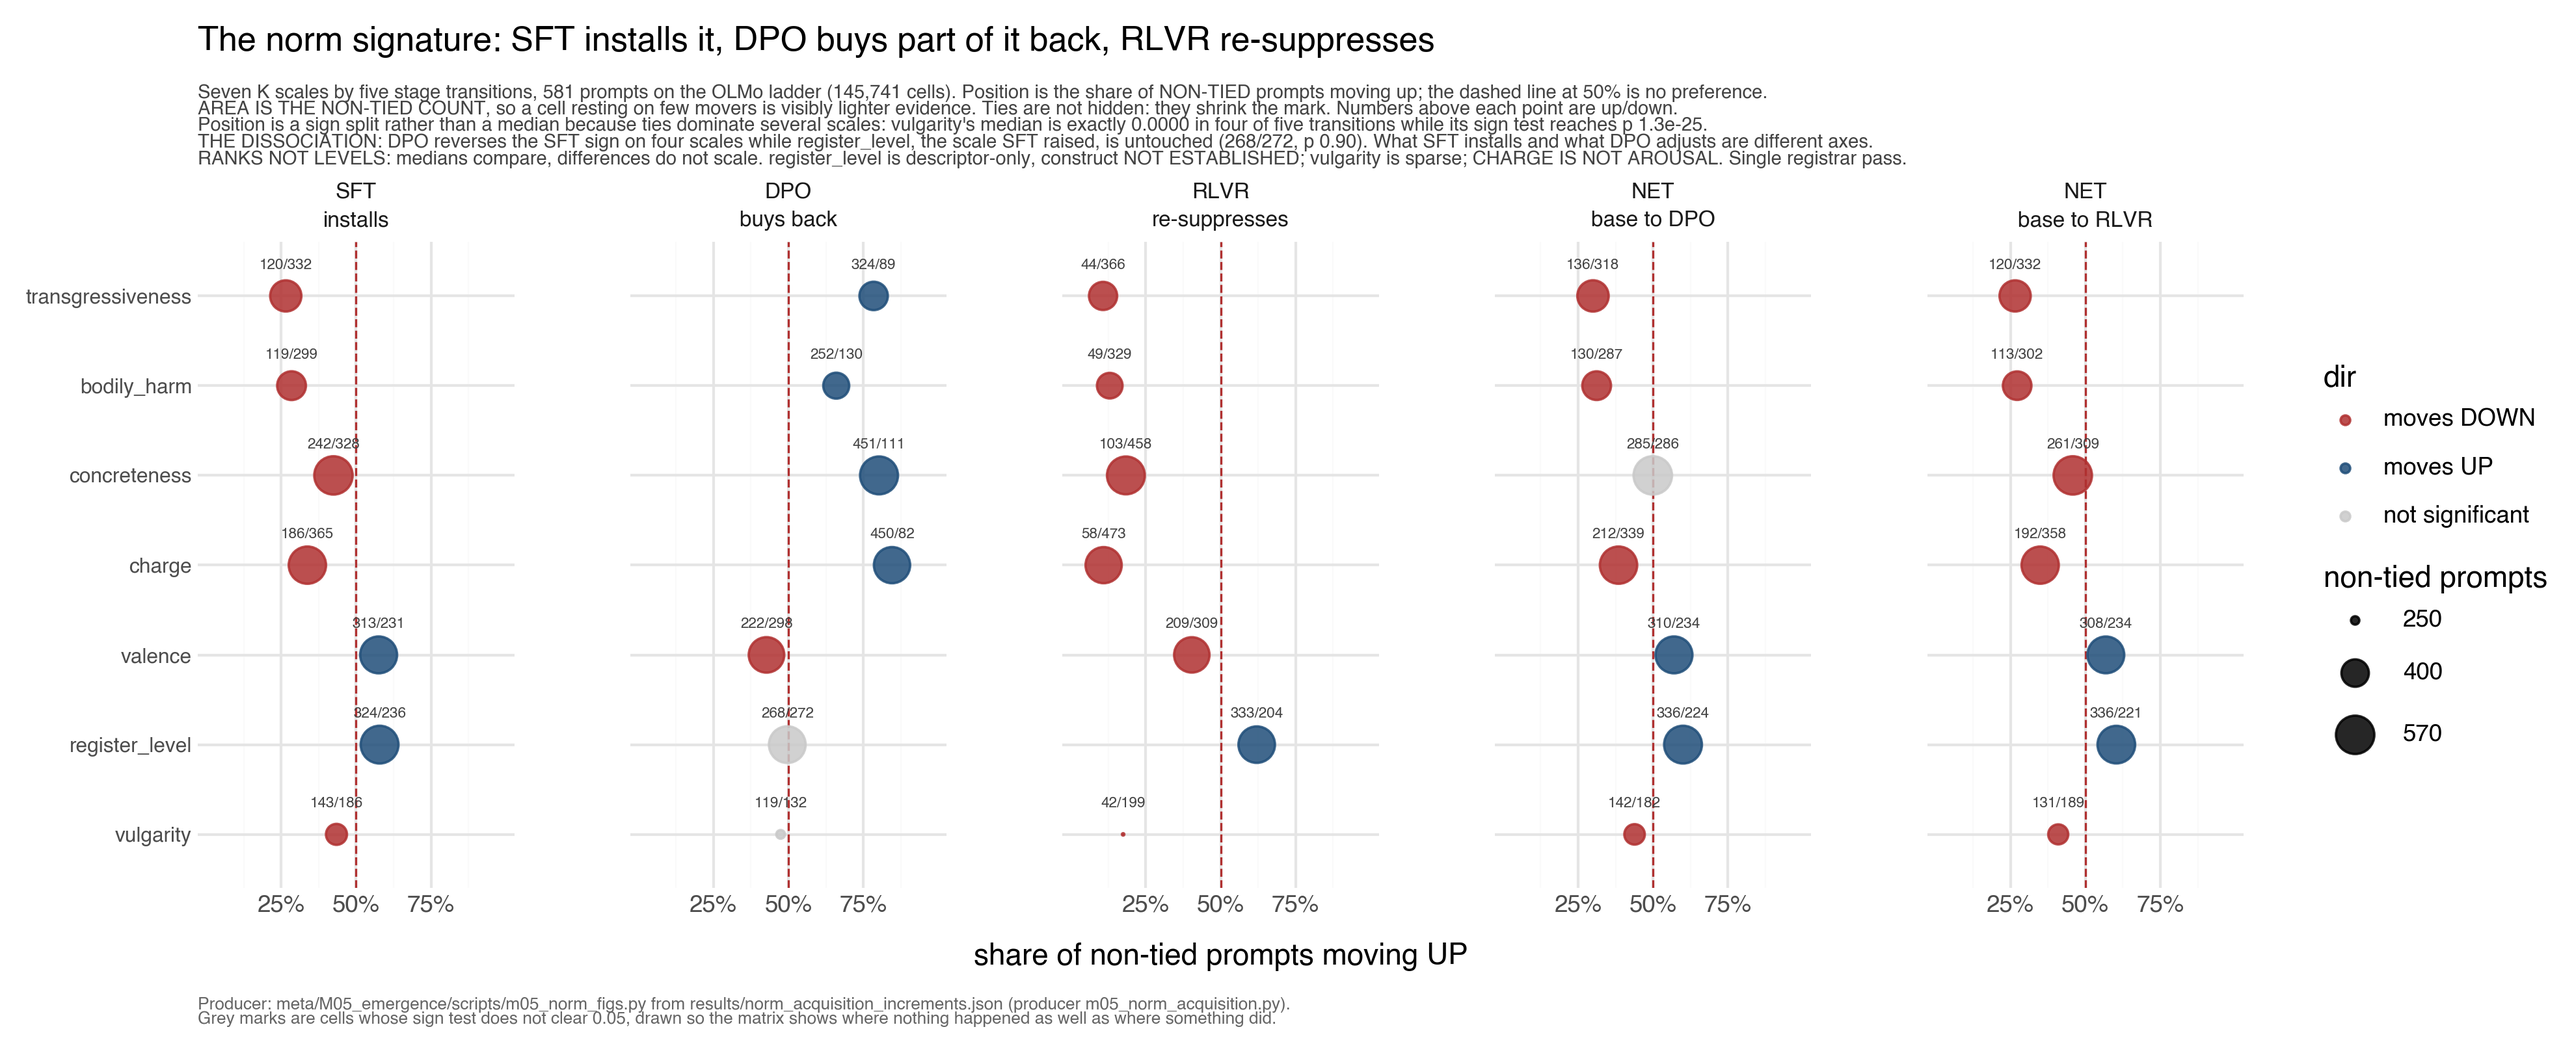
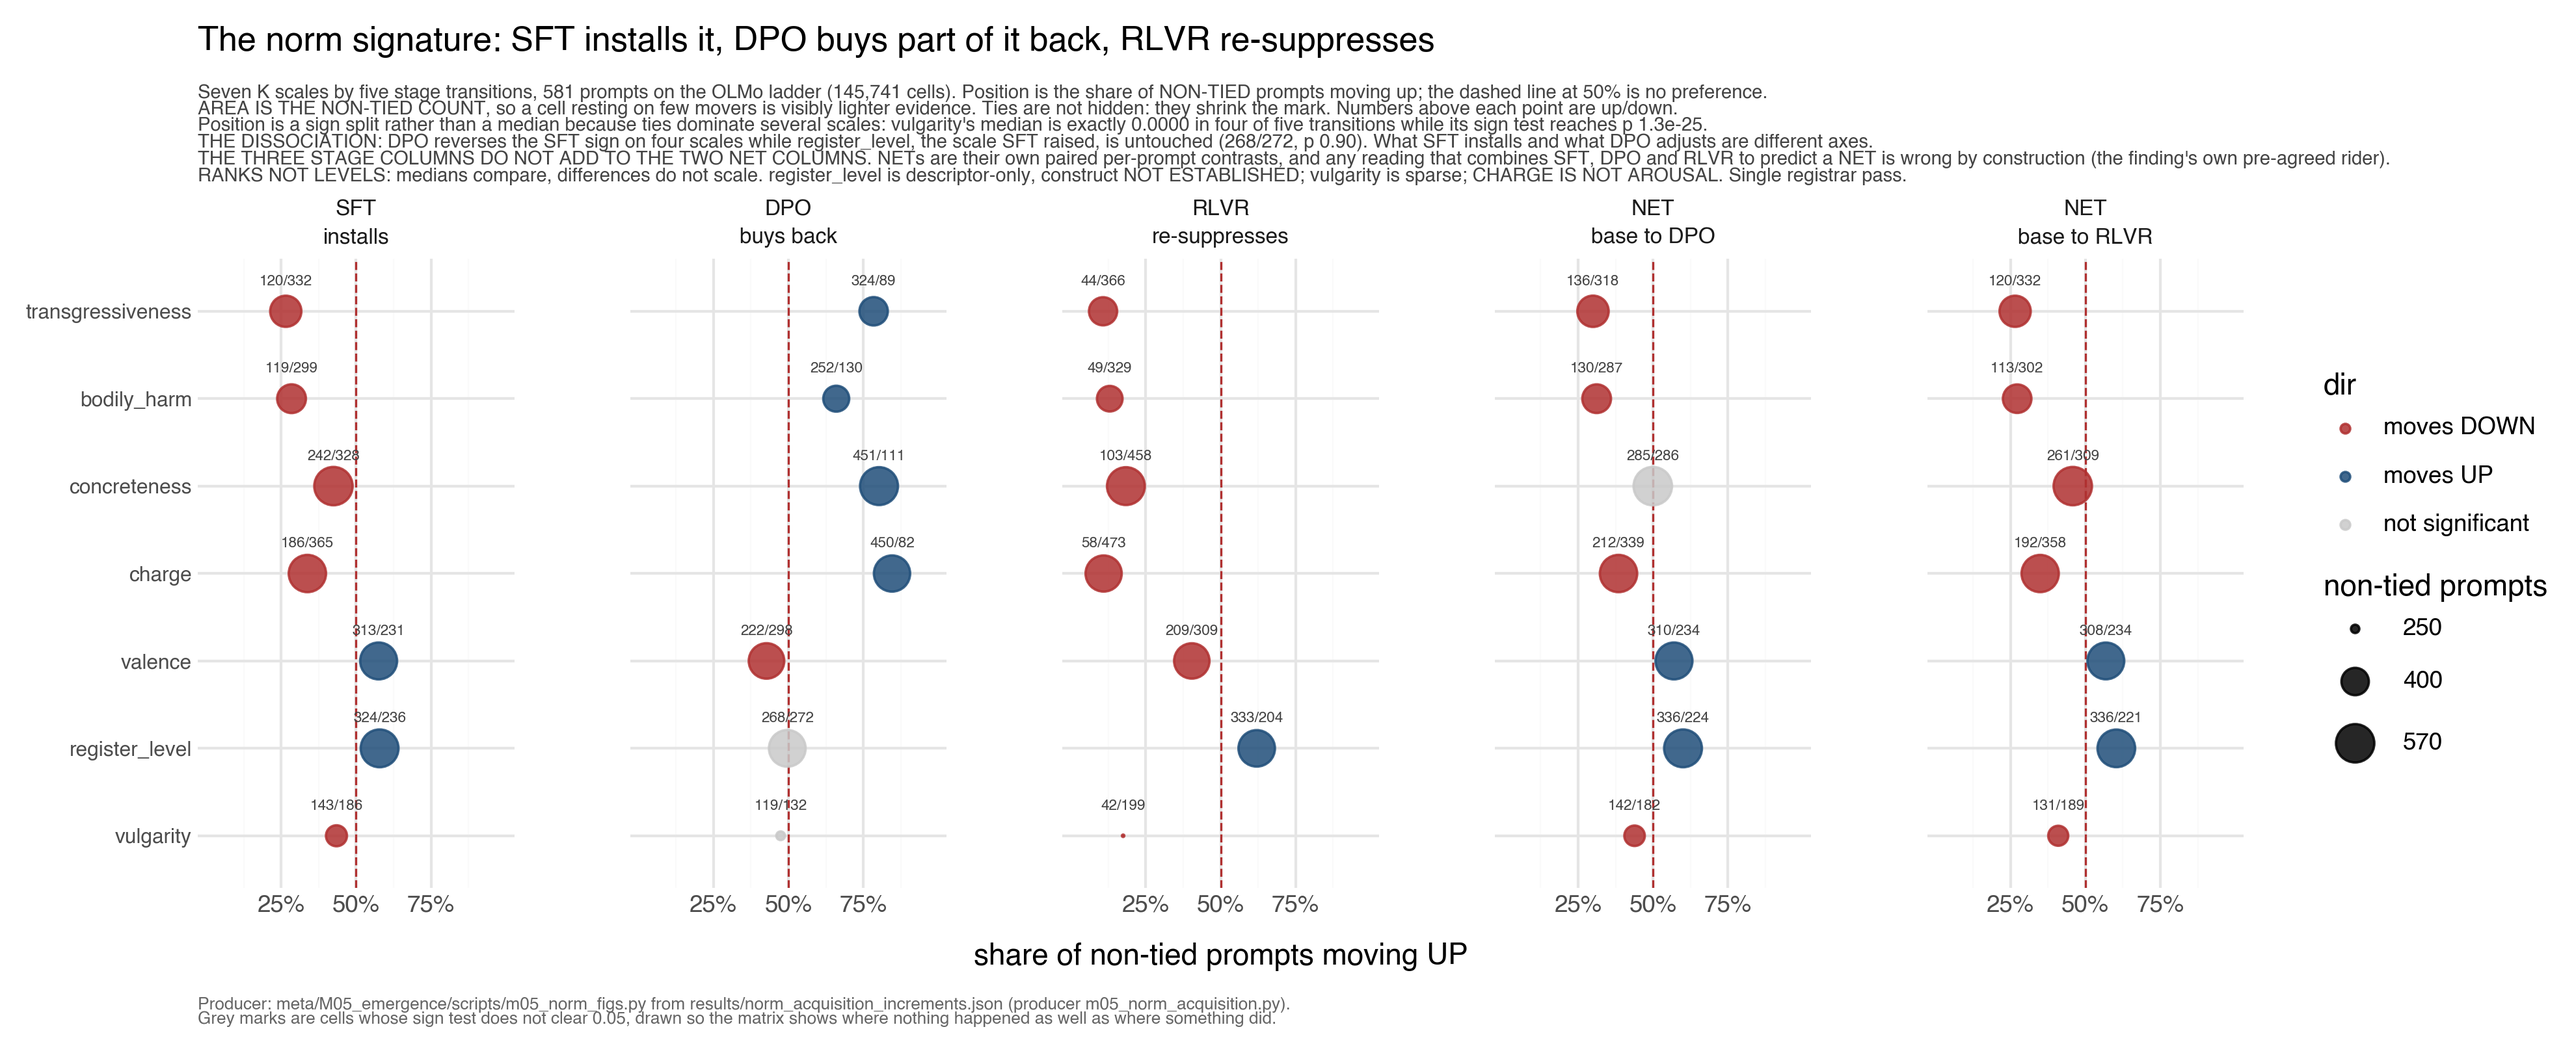
M05: fig30 was missing the finding's non-additivity rider
The panel puts three stage transitions beside two NETs, which invites
the reader to add the first three and check the fourth. H_norm_
acquisition forbids exactly that in a pre-agreed rider from the
[5730]/[5732] lesson: NETs are their own paired per-prompt contrasts,
summed stage medians do not equal the median NET, and any reading that
adds rows 1-3 to predict row 4 is wrong by construction.

The figure omitted it. The layout is the invitation, so the rider
belongs on the panel and not only in the finding.

Found via malign's [5994] generalisation of the trap in shortlist 10:
the mean is linear and commutes with any linear combination of its
inputs, the median commutes with none, so a median-aggregated table
admits exactly one safe operation, which is reading a row. Theirs was
addition and mine was subtraction, with nothing in common but the
aggregator.

Applies to this panel's own encoding too: shares of non-tied prompts do
not add across transitions any more than the medians they replaced.

diff --git a/meta/M05_emergence/scripts/m05_norm_figs.py b/meta/M05_emergence/scripts/m05_norm_figs.py
@@ -31,6 +31,22 @@ This is the campaign's quote-the-counts rule ([5899]) applied to a
 matrix: the statistic that survives the ties is the count, and the
 median is the summary that does not.
 
+AND THE COLUMNS DO NOT COMBINE, WHICH THE LAYOUT INVITES
+--------------------------------------------------------
+Three stage transitions sit beside two NETs, so the panel invites the
+reader to add the first three and check the fourth. The finding forbids
+it in a pre-agreed rider: NETs are their own paired per-prompt
+contrasts, summed stage medians do not equal the median NET, and any
+reading that adds rows 1-3 to predict row 4 is wrong by construction.
+
+The first version of this figure omitted that rider. It was added after
+@malign generalised the same defect from a different operator at
+[5994]: the mean is linear and commutes with any linear combination of
+its inputs, the median commutes with none, so a median-aggregated table
+admits exactly one safe operation -- reading a row. The share-of-
+non-tied encoding used here does not add either, so the rider applies to
+this panel's own quantity and not only to the medians it replaced.
+
 THE PYTHIA PANEL STARTS WHERE THE INSTRUMENT DOES
 -------------------------------------------------
 The finding's pre-agreed fence: below step 8 the instrument resolves a
@@ -160,6 +176,9 @@ def stage_matrix():
                 "THE DISSOCIATION: DPO reverses the SFT sign on four scales while register_level, the "
                 "scale SFT raised, is untouched (268/272, p 0.90). What SFT installs and what DPO "
                 "adjusts are different axes.\n"
+                "THE THREE STAGE COLUMNS DO NOT ADD TO THE TWO NET COLUMNS. NETs are their own paired "
+                "per-prompt contrasts, and any reading that combines SFT, DPO and RLVR to predict a NET "
+                "is wrong by construction (the finding's own pre-agreed rider).\n"
                 "RANKS NOT LEVELS: medians compare, differences do not scale. register_level is "
                 "descriptor-only, construct NOT ESTABLISHED; vulgarity is sparse; CHARGE IS NOT AROUSAL. "
                 "Single registrar pass."),
